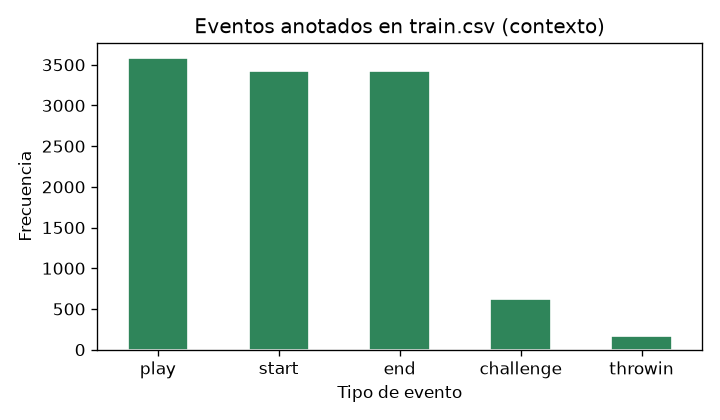
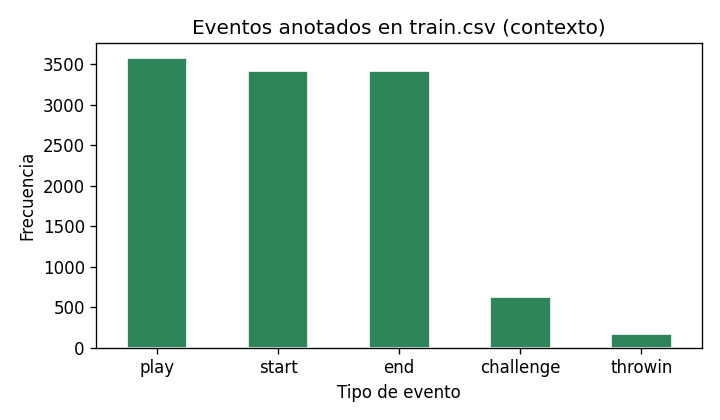
Corrige taxonomía de jugadas (acción × contexto) en figuras de contexto
La figura de atributos contaba pases y centros juntos. Ahora cruza acción y contexto; etiquetas de las figuras en español.

diff --git a/src/eda_figures.py b/src/eda_figures.py
@@ -7,7 +7,6 @@ taxonomy and temporal density of the events.
 """
 
 import ast
-from collections import Counter
 
 import matplotlib
 matplotlib.use("Agg")
@@ -32,28 +31,35 @@ def main():
     # Fig 1 - clip size distribution
     fig, ax = plt.subplots(figsize=(6, 3.5))
     ax.hist(inv["size_mb"], bins=20, color="#2b6cb0", edgecolor="white")
-    ax.set(xlabel="Clip size (MB)", ylabel="Number of clips",
-           title="Size distribution of the 200 clips")
+    ax.set(xlabel="Tamaño del clip (MB)", ylabel="Número de clips",
+           title="Distribución del tamaño de los 200 clips")
     fig.tight_layout(); fig.savefig("outputs/01_clip_size_hist.png"); plt.close(fig)
 
     # Fig 2 - event types in train.csv (context)
     fig, ax = plt.subplots(figsize=(6, 3.5))
     train["event"].value_counts().plot(kind="bar", color="#2f855a",
                                         edgecolor="white", ax=ax)
-    ax.set(xlabel="Event type", ylabel="Frequency",
-           title="Annotated events in train.csv (context)")
+    ax.set(xlabel="Tipo de evento", ylabel="Frecuencia",
+           title="Eventos anotados en train.csv (contexto)")
     ax.tick_params(axis="x", rotation=0)
     fig.tight_layout(); fig.savefig("outputs/02_event_types.png"); plt.close(fig)
 
-    # Fig 3 - attributes of 'play' events (pass taxonomy)
+    # Fig 3 - 'play' events: action type (pass / cross) x context
+    # Each play carries two attributes: the action and its context. Counting
+    # the attributes independently mixes passes and crosses, so cross them.
     plays = train[train["event"] == "play"]
-    counts = Counter()
-    for attrs in plays["event_attributes"]:
-        counts.update(parse_attrs(attrs))
-    series = pd.Series(dict(counts)).sort_values()
+    attrs = plays["event_attributes"].apply(parse_attrs)
+    table = pd.crosstab(attrs.str[1], attrs.str[0])
+    table = table.loc[table.sum(axis=1).sort_values().index]
     fig, ax = plt.subplots(figsize=(6, 3.5))
-    series.plot(kind="barh", color="#c05621", edgecolor="white", ax=ax)
-    ax.set(xlabel="Frequency", title="Attributes of 'play' events (pass types)")
+    table.plot(kind="barh", stacked=True, color=["#c05621", "#2b6cb0"],
+               edgecolor="white", ax=ax)
+    for i, total in enumerate(table.sum(axis=1)):
+        ax.text(total, i, f" {total:,}", va="center", fontsize=9)
+    ax.set(xlabel="Frecuencia", ylabel="Contexto",
+           title="Jugadas (play) por acción y contexto")
+    ax.set_xlim(0, table.sum(axis=1).max() * 1.15)
+    ax.legend(title="Acción")
     fig.tight_layout(); fig.savefig("outputs/03_play_attributes.png"); plt.close(fig)
 
     # Fig 4 - temporal density of passes in the busiest match
@@ -62,8 +68,8 @@ def main():
     sub = passes[passes["video_id"] == video]
     fig, ax = plt.subplots(figsize=(6, 3.5))
     ax.hist(sub["time"] / 60, bins=30, color="#6b46c1", edgecolor="white")
-    ax.set(xlabel="Match minute", ylabel="Passes",
-           title=f"Temporal density of passes - video {video}")
+    ax.set(xlabel="Minuto del video", ylabel="Pases",
+           title=f"Densidad temporal de pases - video {video}")
     fig.tight_layout(); fig.savefig("outputs/04_pass_temporal_density.png"); plt.close(fig)
 
     print("Figures written to outputs/")
